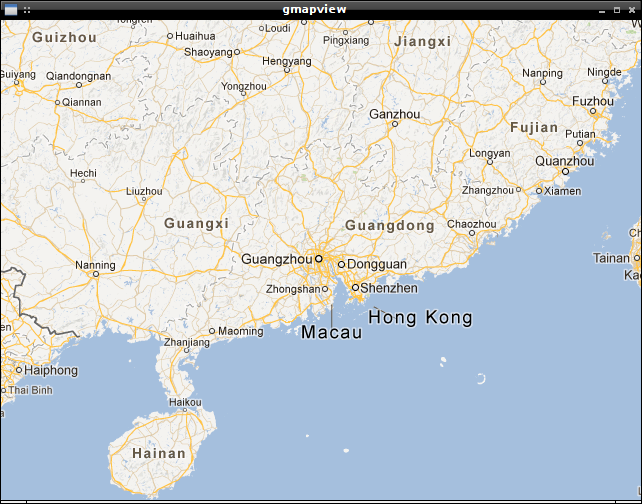
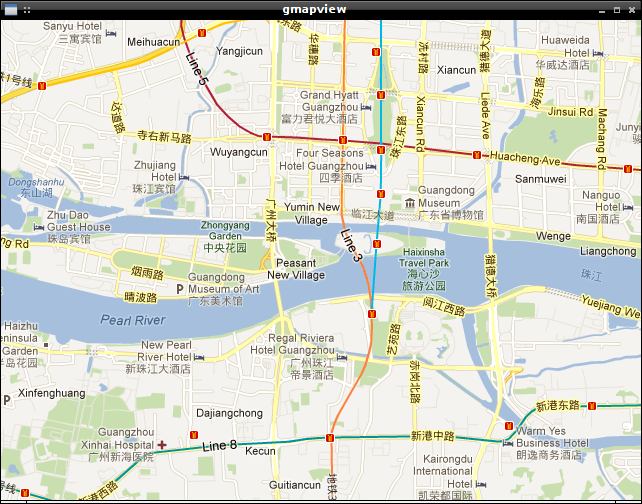
examples: Update all examples.

diff --git a/examples/gpsview/gpsview.go b/examples/gpsview/gpsview.go
@@ -21,32 +21,37 @@ var flagLat float64
 var flagLong float64
 
 // flagSource specifies the tile representation source.
-var flagSource int
+var flagSource = gtkmap.SourceVirtualEarthSatellite
+
+// When flagVerbose is true, enable verbose output.
+var flagVerbose bool
 
 // flagZoom specifies the zoom level of the map.
 var flagZoom int
 
 func init() {
 	// Cat Ba.
-	lat := 20.793415
-	long := 106.99894
-	flag.Float64Var(&flagLat, "lat", lat, "Latitude.")
-	flag.Float64Var(&flagLong, "long", long, "Longitude.")
-	flag.IntVar(&flagSource, "s", int(gtkmap.SourceVirtualEarthSatellite), "Tile representation source (1-16).")
-	flag.IntVar(&flagZoom, "z", 11, "Zoom level (1-20).")
+	coord := gtkmap.Coord(20.793415, 106.99894)
+	flag.Float64Var(&flagLat, "lat", coord.Lat, "Latitude.")
+	flag.Float64Var(&flagLong, "long", coord.Long, "Longitude.")
+	flag.Var(&flagSource, "s", "Tile representation source (1-16).")
+	flag.BoolVar(&flagVerbose, "v", false, "Verbose.")
+	flag.IntVar(&flagZoom, "z", 11, "Zoom level (1-18).")
 }
 
 func main() {
 	// Parse image GPS coordinates.
 	flag.Parse()
-	var coords []*gps.GeoFields
+	var geoCoords []*gps.GeoFields
 	for _, imgPath := range flag.Args() {
-		coord, err := getCoordinate(imgPath)
+		geoCoord, err := getCoordinate(imgPath)
 		if err != nil {
-			log.Println(err)
+			if flagVerbose {
+				log.Println(err)
+			}
 			continue
 		}
-		coords = append(coords, coord)
+		geoCoords = append(geoCoords, geoCoord)
 	}
 
 	gtk.Init(&os.Args)
@@ -56,31 +61,45 @@ func main() {
 	win.Connect("destroy", gtk.MainQuit)
 
 	// Create a map widget which uses flagSource as source for the map tiles.
-	m, err := gtkmap.NewMapWithSource(gtkmap.Source(flagSource))
+	m, err := gtkmap.NewMapOpt(flagSource)
 	if err != nil {
-		// Fall back to using OpenStreetMap if Google Maps could not be used as
+		// Fall back to using OpenStreetMap if flagSource could not be used as
 		// source.
 		m = gtkmap.NewMap()
 	}
 
-	fmt.Println("Map tile representations from:", m.Source())
+	if flagVerbose {
+		fmt.Println("Map tile representations from:", m.Source().FriendlyName())
+	}
 	m.SetSizeRequest(640, 480)
 	win.Add(m)
 
-	if len(coords) == 0 {
+	if len(geoCoords) == 0 {
 		// Center on the provided latitude and longitude if no image GPS
 		// coordinates were found .
-		fmt.Println("Center on latitude and longitude from flags.")
-		m.SetCenter(flagLat, flagLong)
+		coord := gtkmap.Coord(flagLat, flagLong)
+		if flagVerbose {
+			fmt.Printf("Center on coordinate %v provided from flags.\n", coord)
+		}
+		m.SetCenter(coord)
 	} else {
-		for _, coord := range coords {
+		for i, geoCoord := range geoCoords {
 			// Place GPS coordinates on the map.
-			lat := float64(coord.Lat)
-			long := float64(coord.Long)
-			m.AddGPS(lat, long, 0)
+			lat := float64(geoCoord.Lat)
+			long := float64(geoCoord.Long)
+			coord := gtkmap.Coord(lat, long)
+			m.AddGPS(coord, 0)
+			if flagVerbose {
+				fmt.Printf("Add GPS marker at coordinate %v.\n", coord)
+			}
 
-			// Center on the last GPS coordinate.
-			m.SetCenter(lat, long)
+			if i == len(geoCoords)-1 {
+				// Center on the last GPS coordinate.
+				m.SetCenter(coord)
+				if flagVerbose {
+					fmt.Printf("Center on coordinate %v provided from image.\n", coord)
+				}
+			}
 		}
 	}
 
@@ -91,20 +110,37 @@ func main() {
 	onButtonPress := func(ctx *glib.CallbackContext) {
 		arg := ctx.Args(0)
 		ev := (*gdk.EventButton)(unsafe.Pointer(arg))
-		// Double click.
-		if ev.Type == int(gdk.BUTTON2_PRESS) {
-			lat, long := m.ScreenToCoord(int(ev.X), int(ev.Y))
+		coord := m.ScreenToCoord(int(ev.X), int(ev.Y))
+
+		// Single-click.
+		if ev.Type == int(gdk.BUTTON_PRESS) {
 			switch ev.Button {
 			case 1:
-				// Left mouse button.
-				m.SetCenter(lat, long)
-				m.ZoomIn()
+				// left click
+				switch {
+				case ev.State&uint32(gdk.SHIFT_MASK) != 0:
+					// [shift] + [left mouse button]
+					m.AddGPS(coord, 0)
+				case ev.State&uint32(gdk.CONTROL_MASK) != 0:
+					// [ctrl] + [left mouse button]
+					m.ClearGPS()
+				}
 			case 2:
-				// Middle mouse button.
-				m.ClearGPS()
+				// middle click
+				fmt.Println("coordinate:", coord)
+			}
+		}
+
+		// Double-click.
+		if ev.Type == int(gdk.BUTTON2_PRESS) {
+			switch ev.Button {
+			case 1:
+				// left double-click
+				m.SetCenter(coord)
+				m.ZoomIn()
 			case 3:
-				// Right mouse button.
-				m.SetCenter(lat, long)
+				// right double-click
+				m.SetCenter(coord)
 				m.ZoomOut()
 			}
 		}
@@ -116,7 +152,7 @@ func main() {
 }
 
 // getCoordinate returns the GPS coordinate of an image. The information is
-// stored in the EXIF data of the image.
+// stored in the image's EXIF data.
 func getCoordinate(imgPath string) (coord *gps.GeoFields, err error) {
 	fr, err := os.Open(imgPath)
 	if err != nil {
@@ -125,14 +161,14 @@ func getCoordinate(imgPath string) (coord *gps.GeoFields, err error) {
 	defer fr.Close()
 	x, err := exif.Decode(fr)
 	if err != nil {
-		return nil, err
+		return nil, fmt.Errorf("exif.Decode: failed for %q; %s.", imgPath, err.Error())
 	}
 	coord, err = gps.GetGPS(x)
 	if err != nil {
-		return nil, err
+		return nil, fmt.Errorf("gps.GetGPS: failed for %q; %s.", imgPath, err.Error())
 	}
 	if math.IsNaN(float64(coord.Lat)) || math.IsNaN(float64(coord.Long)) {
-		return nil, fmt.Errorf("getCoordinate: unable to locate lat and long in EXIF data for %q.", imgPath)
+		return nil, fmt.Errorf("getCoordinate: failed for %q; unable to locate lat and long in EXIF data.", imgPath)
 	}
 	return coord, nil
 }

diff --git a/examples/gmapview/gmapview.go b/examples/gmapview/gmapview.go
@@ -15,21 +15,20 @@ func main() {
 
 	// Create a map widget which uses Google Maps as source for the map tiles.
 	source := gtkmap.SourceGoogleMaps
-	m, err := gtkmap.NewMapWithSource(source)
+	m, err := gtkmap.NewMapOpt(source)
 	if err != nil {
 		// Fall back to using OpenStreetMap if Google Maps could not be used as
 		// source.
 		m = gtkmap.NewMap()
 	}
-	fmt.Println("Map tile representations from:", m.Source())
+	fmt.Println("Map tile representations from:", m.Source().FriendlyName())
 	m.SetSizeRequest(640, 480)
 	win.Add(m)
 
 	// Center the map on Guangzhou and set zoom level.
-	lat := 23.110262
-	long := 113.319374
-	zoom := 6
-	m.SetCenterAndZoom(lat, long, zoom)
+	coord := gtkmap.Coord(23.110262, 113.319374)
+	zoom := 14
+	m.SetCenterAndZoom(coord, zoom)
 
 	win.ShowAll()
 	gtk.Main()

diff --git a/examples/mapview/mapview.go b/examples/mapview/mapview.go
@@ -18,7 +18,7 @@ func main() {
 	win.Add(m)
 
 	// Center the map on Iceland.
-	m.SetCenter(64.963051, -19.020835)
+	m.SetCenter(gtkmap.Coord(64.963051, -19.020835))
 
 	// Set zoom level.
 	m.SetZoom(6)
